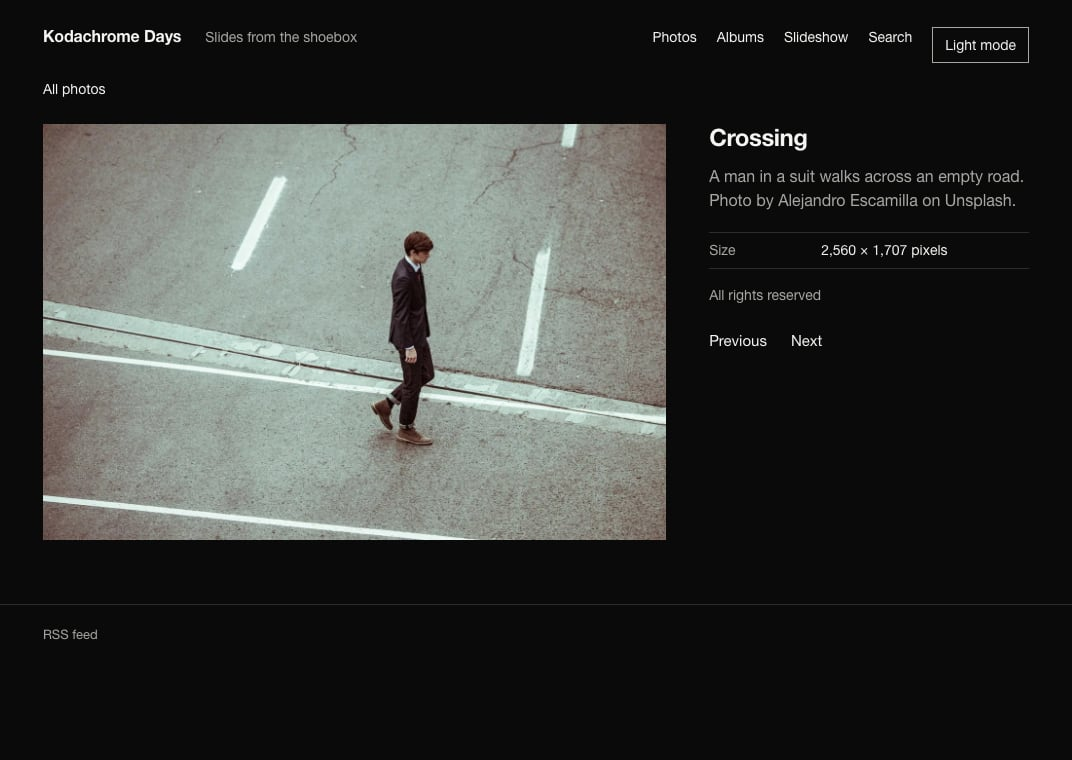
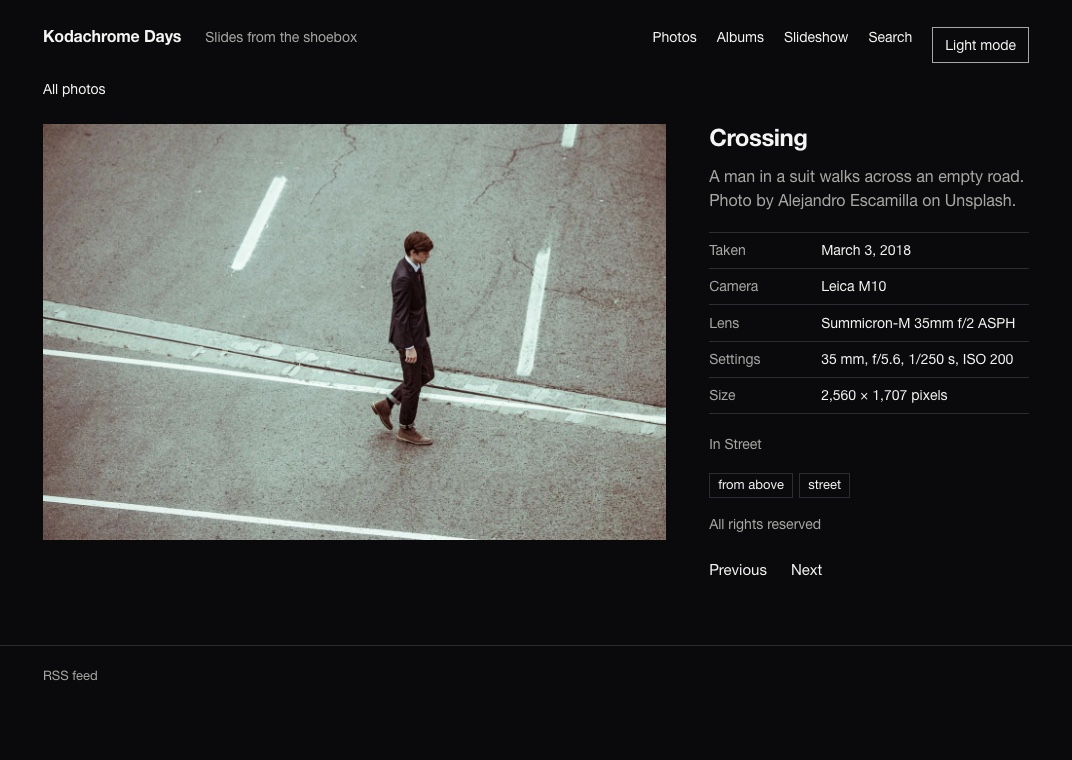
Screenshots: the photo page and the slideshow show a photo's date and camera details
The sample photos carry no camera data, so the values shown are examples; the
README and the captions say so.

diff --git a/site/index.html b/site/index.html
@@ -243,7 +243,7 @@ footer .wrap{border-top:1px solid var(--rule);padding-top:20px;padding-bottom:28
         </li>
         <li>
           <div class="cap"><span class="num" aria-hidden="true">08</span><h3>One photo, with its words</h3><p>Each photo has its own page and address, with its title, description, date, and camera details, and links to the next and the previous. It can also open over the grid.</p><p class="where">A photo page</p></div>
-          <figure><img src="screens/photo.jpg" width="1072" height="760" loading="lazy" decoding="async" alt="A photo page: a whitewashed town on a hillside, with the title Whitewashed town, a description, its size in pixels, and Previous and Next links beside it."></figure>
+          <figure><img src="screens/photo.jpg" width="1072" height="760" loading="lazy" decoding="async" alt="A photo page: a whitewashed town on a hillside, with the title Whitewashed town, a description, the date it was taken, camera, lens, exposure settings, size in pixels, two tags, and Previous and Next links beside it. The camera details are example values."></figure>
         </li>
         <li>
           <div class="cap"><span class="num" aria-hidden="true">09</span><h3>Film looks and frames</h3><p>Modules change how a photo looks without touching the file you uploaded. Under each photo is a strip of previews: black-and-white, a colour slide, a contact-print frame with made-up film markings. Pick one, adjust it, save. Switching it off puts the photo back.</p><p class="where">Editing a photo</p></div>

diff --git a/site/docs/changelog/index.html b/site/docs/changelog/index.html
@@ -55,6 +55,7 @@
     <div class="pages__here">
       <h2>On this page</h2>
       <ul>
+        <li><a href="#unreleased">Not yet released</a></li>
         <li><a href="#v1-11-0">Version 1.11.0, 18 November 2026</a></li>
         <li><a href="#v1-10-0">Version 1.10.0, 17 November 2026</a></li>
         <li><a href="#v1-9-0">Version 1.9.0, 17 November 2026</a></li>
@@ -77,6 +78,10 @@
 <h1>Releases</h1>
 <p class="lead">What is in each version of Fotobogen, newest first. This page is made from <a href="https://github.com/cschweda/fotobogen/blob/main/CHANGELOG.md">CHANGELOG.md</a> in the source, so the two always agree.</p>
 <p>Version numbers follow <a href="https://semver.org">semantic versioning</a>: a change in the first number means something you rely on changed, the second adds features, and the third only fixes. <a href="https://github.com/cschweda/fotobogen/blob/main/docs/UPGRADING.md">What a version number promises, and how to upgrade.</a></p>
+<h2 id="unreleased">Not yet released</h2>
+<ul>
+  <li>The photo page and slideshow screenshots show a photo's date, camera, lens and settings. The values are examples, and the README says so: the sample photos carry no camera data.</li>
+</ul>
 <h2 id="v1-11-0">Version 1.11.0, 18 November 2026</h2>
 <p>An iPhone's photos, the words saved inside a file, alt text for every photo, a folder at once, and a swipe on a phone. It follows a review of the whole program by someone who had never seen it, which found ten defects, all fixed here.</p>
 <h3>Added</h3>

diff --git a/docs/site/pages/usage.html b/docs/site/pages/usage.html
@@ -138,7 +138,7 @@ pnpm fotobogen import ~/Pictures/export --album "Iceland 2023"</code></pre>
 <h2 id="public">What visitors see</h2>
 <div class="pair">
   <figure><img src="/screens/gallery.jpg" alt="The public site: a dark page with a masonry grid of photographs of different shapes" width="1072" height="760" loading="lazy"><figcaption>The grid.</figcaption></figure>
-  <figure><img src="/screens/photo.jpg" alt="A photo page: the photograph with its title and description beside it, and Previous and Next links" width="1072" height="760" loading="lazy"><figcaption>A photo.</figcaption></figure>
+  <figure><img src="/screens/photo.jpg" alt="A photo page: the photograph with its title, description, date taken, camera, lens, exposure settings, size, and tags beside it, and Previous and Next links" width="1072" height="760" loading="lazy"><figcaption>A photo. (The camera details shown are example values: the sample photos arrive with none.)</figcaption></figure>
 </div>
 <ul>
   <li><strong>The grid</strong>, at your address: photos shuffled afresh for each visit, or in your library's order (you choose in Settings), thirty to a page, each keeping its shape or all cut square. It works with JavaScript switched off, and nothing jumps as images arrive.</li>

diff --git a/site/docs/usage/index.html b/site/docs/usage/index.html
@@ -212,7 +212,7 @@ pnpm fotobogen import ~/Pictures/export --album "Iceland 2023"</code></pre>
 <h2 id="public">What visitors see</h2>
 <div class="pair">
   <figure><img src="/screens/gallery.jpg" alt="The public site: a dark page with a masonry grid of photographs of different shapes" width="1072" height="760" loading="lazy"><figcaption>The grid.</figcaption></figure>
-  <figure><img src="/screens/photo.jpg" alt="A photo page: the photograph with its title and description beside it, and Previous and Next links" width="1072" height="760" loading="lazy"><figcaption>A photo.</figcaption></figure>
+  <figure><img src="/screens/photo.jpg" alt="A photo page: the photograph with its title, description, date taken, camera, lens, exposure settings, size, and tags beside it, and Previous and Next links" width="1072" height="760" loading="lazy"><figcaption>A photo. (The camera details shown are example values: the sample photos arrive with none.)</figcaption></figure>
 </div>
 <ul>
   <li><strong>The grid</strong>, at your address: photos shuffled afresh for each visit, or in your library's order (you choose in Settings), thirty to a page, each keeping its shape or all cut square. It works with JavaScript switched off, and nothing jumps as images arrive.</li>

diff --git a/docs/site/pages/skins.html b/docs/site/pages/skins.html
@@ -15,7 +15,7 @@
 </table></div>
 
 <div class="pair">
-  <figure><img src="/screens/skin-swiss-photo.jpg" alt="The Swiss skin in dark mode: a photo page in off-white on near-black" width="1072" height="760" loading="lazy"><figcaption>Swiss, dark.</figcaption></figure>
+  <figure><img src="/screens/skin-swiss-photo.jpg" alt="The Swiss skin in dark mode: a photo page in off-white on near-black, with the photo's date, camera details, album, and tags beside it" width="1072" height="760" loading="lazy"><figcaption>Swiss, dark.</figcaption></figure>
   <figure><img src="/screens/skin-swiss-light.jpg" alt="The Swiss skin in light mode: the same photo page in black on white" width="1072" height="760" loading="lazy"><figcaption>Swiss, light.</figcaption></figure>
   <figure><img src="/screens/skin-papier.jpg" alt="The Papier skin in light mode: black type on warm white with a heavy rule under the site name" width="1072" height="760" loading="lazy"><figcaption>Papier, light.</figcaption></figure>
   <figure><img src="/screens/skin-papier-dark.jpg" alt="The Papier skin in dark mode: warm white type on warm black" width="1072" height="760" loading="lazy"><figcaption>Papier, dark.</figcaption></figure>

diff --git a/site/docs/skins/index.html b/site/docs/skins/index.html
@@ -83,7 +83,7 @@
 </table></div>
 
 <div class="pair">
-  <figure><img src="/screens/skin-swiss-photo.jpg" alt="The Swiss skin in dark mode: a photo page in off-white on near-black" width="1072" height="760" loading="lazy"><figcaption>Swiss, dark.</figcaption></figure>
+  <figure><img src="/screens/skin-swiss-photo.jpg" alt="The Swiss skin in dark mode: a photo page in off-white on near-black, with the photo's date, camera details, album, and tags beside it" width="1072" height="760" loading="lazy"><figcaption>Swiss, dark.</figcaption></figure>
   <figure><img src="/screens/skin-swiss-light.jpg" alt="The Swiss skin in light mode: the same photo page in black on white" width="1072" height="760" loading="lazy"><figcaption>Swiss, light.</figcaption></figure>
   <figure><img src="/screens/skin-papier.jpg" alt="The Papier skin in light mode: black type on warm white with a heavy rule under the site name" width="1072" height="760" loading="lazy"><figcaption>Papier, light.</figcaption></figure>
   <figure><img src="/screens/skin-papier-dark.jpg" alt="The Papier skin in dark mode: warm white type on warm black" width="1072" height="760" loading="lazy"><figcaption>Papier, dark.</figcaption></figure>

diff --git a/README.md b/README.md
@@ -83,20 +83,23 @@ free software with no warranty: keep backups of your photographs.
 
 ## Screenshots
 
-Taken from a local install of version 1.10.0 (the grid, the photo page, and
-the admin's Overview from 1.9.0, which they match; the upload page from
-1.11.0). The
+Taken from a local install of version 1.10.0 (the grid and the admin's
+Overview from 1.9.0, which they match; the upload page, the photo page and
+the slideshow from 1.11.0). The
 photographs are the sample photos Fotobogen can download (Unsplash
-photographs, via Lorem Picsum).
+photographs, via Lorem Picsum). The sample photos arrive with no camera
+data, so the date, camera, lens and settings shown beside two of them here
+are example values, put in to show where a photo's own details appear;
+they are not what those photographs were taken with.
 
 What visitors see: the grid, a photo on its own page, and the slideshow
 with a photo's details open.
 
 ![The public site: a dark page with a row of album names to choose from, above a masonry grid of photographs of different shapes](docs/screenshots/gallery.jpg)
 
-![A photo page: the photograph with its title, description, and size beside it, and Previous and Next links](docs/screenshots/photo.jpg)
+![A photo page: the photograph with, beside it, its title, description, date taken, camera, lens, exposure settings, size in pixels, two tags, and licence, and Previous and Next links](docs/screenshots/photo.jpg)
 
-![The slideshow: a photograph filling the screen, with a panel over its lower part giving the title, description, size in pixels, album, two tags, and licence, above the Previous, Pause, Next, Full screen, and Close buttons](docs/screenshots/slideshow.jpg)
+![The slideshow: a photograph filling the screen, with a panel over its lower part giving the title, description, date taken, camera, lens, exposure settings, size in pixels, album, two tags, and licence, above the Previous, Pause, Next, Full screen, and Close buttons](docs/screenshots/slideshow.jpg)
 
 Editing a photo, with the strip of look previews under it and a film frame
 chosen:

diff --git a/CHANGELOG.md b/CHANGELOG.md
@@ -11,7 +11,7 @@ is built from this file.
 
 ## [Unreleased]
 
-Nothing yet.
+- The photo page and slideshow screenshots show a photo's date, camera, lens and settings. The values are examples, and the README says so: the sample photos carry no camera data.
 
 ## [1.11.0] - 2026-11-18
 
